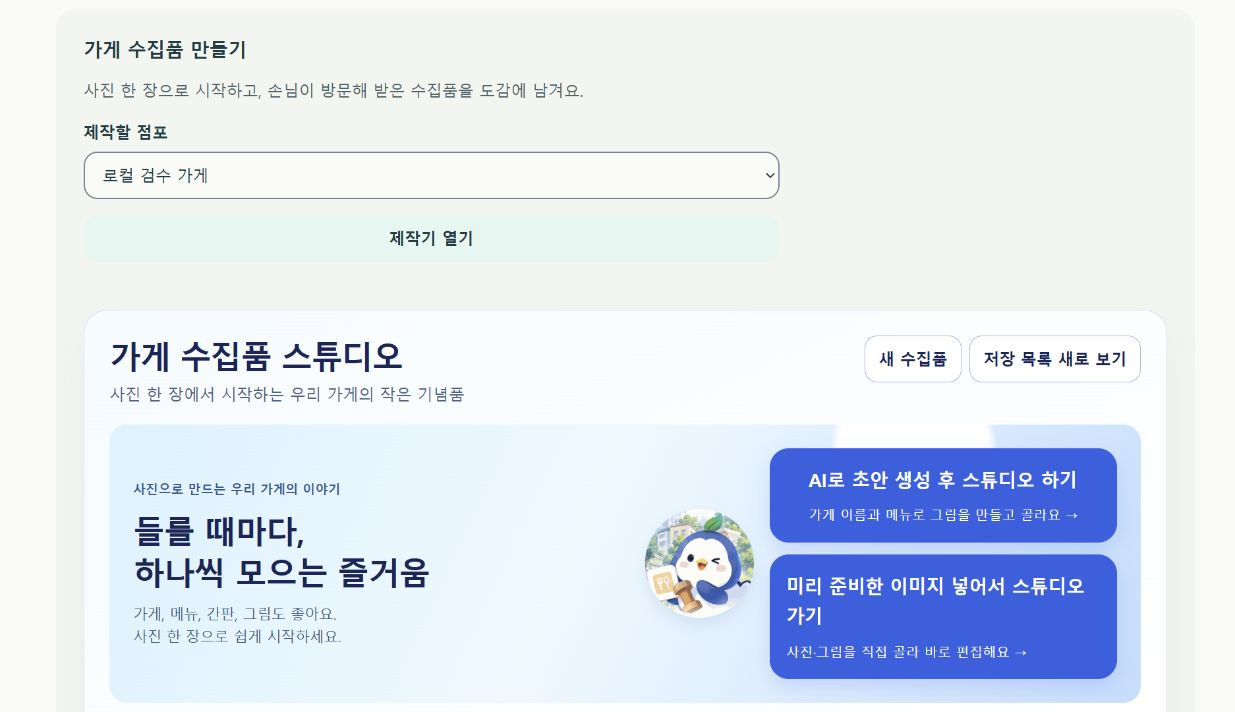
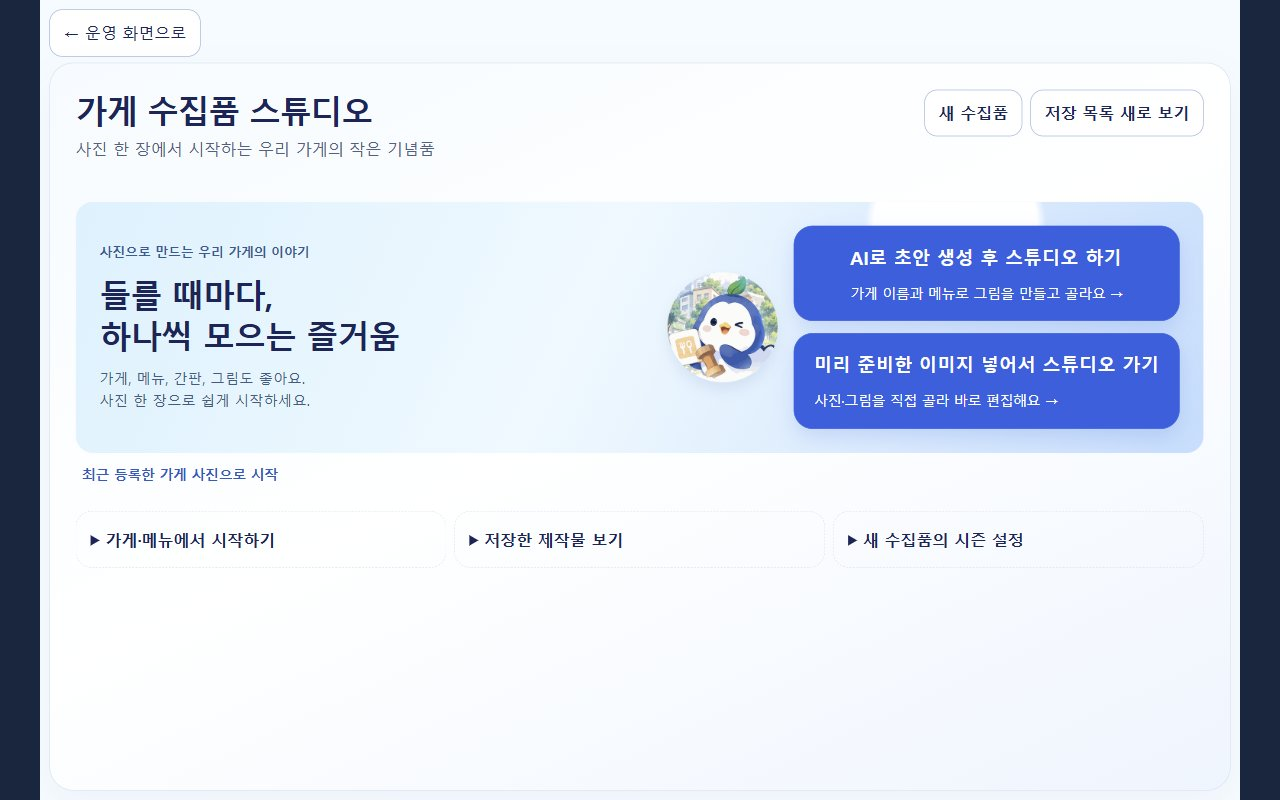
점주가 긴 페이지 대신 한 단계씩 제작하도록 한다
제작기를 별도 화면으로 열고 현재 단계와 다음·이전을 유지한다. 웹 화면의 작업 공간을 확보하면서 미저장 녹음·파일 처리의 닫기 확인과 점포 권한 경계를 보존한다.

Constraint: 점주 제작은 AI 초안과 준비 이미지 두 시작 경로를 유지하며 가상 가게는 로컬·시연 DB에서만 검증한다.
Rejected: 운영 페이지 아래에 제작기 전체를 펼치기 | 단계 진행과 이동 버튼이 화면 밖으로 밀린다.
Confidence: high
Scope-risk: moderate
Directive: 실제 AI 제공자와 승인된 점포에서 저장·게시를 검증한 뒤 API·웹과 PR #413의 프록시 경로를 함께 배포한다.
Tested: API 569/569 및 typecheck·build; 사이트 전체 384/384; 최종 layout 44/44; PostgreSQL 최신 사진 통합 1/1; fresh DB 영속 QA; 데스크톱·모바일 단계 이동 및 고객 앱 로컬 가상 가게 노출; 최종 staged LF 스냅샷 tools/gate.sh 및 PR 한국어 검사 PASS.
Not-tested: 운영 배포와 승인 점포 실계정 종단 검증; 실제 유료 AI 생성·방문·코인 지급·T map 요청; Docker 없는 Windows의 Caddy 컨테이너 시험 2개; in-app browser 확인창 수락·취소 UI 종단(자동 회귀 시험은 통과).
Issue: #416
Issue: #417

diff --git a/apps/production-web/assets/collectible-editor.css b/apps/production-web/assets/collectible-editor.css
@@ -44,6 +44,22 @@
 .ce-create-card > span:last-child { font-weight: 400; font-size: .85rem; }
 .page-narrow:has(.collectible-editor) { width: var(--mc-page); max-width: 1200px; }
 #merchant-creator-editor { max-width: none; width: 100%; }
+.merchant-creator-dialog { position: fixed; inset: 0; width: min(1200px, 100vw); max-width: 100vw; height: 100dvh; max-height: 100dvh; margin: auto; padding: .6rem; border: 0; background: #f5fbff; color: #14245b; }
+.merchant-creator-dialog[open] { display: grid; grid-template-rows: auto minmax(0, 1fr); gap: .4rem; }
+.merchant-creator-dialog::backdrop { background: #14245b80; }
+.merchant-creator-dialog > #merchant-creator-editor { overflow-y: auto; overscroll-behavior: contain; }
+.merchant-creator-dialog .collectible-editor { margin-block: 0; }
+#merchant-creator-close { justify-self: start; min-height: 44px; padding: .6rem .85rem; border: 1px solid #9ab4db; border-radius: .8rem; background: #fff; color: #14245b; font: inherit; cursor: pointer; }
+.ce-home-options { display: grid; grid-template-columns: repeat(3, minmax(0, 1fr)); gap: .5rem; }
+.ce-home-options > details[open] { grid-column: 1 / -1; }
+.merchant-creator-dialog .collectible-editor { height: 100%; display: flex; flex-direction: column; min-height: 0; }
+.merchant-creator-dialog .collectible-editor:has(.ce-workspace:not([hidden])) > .ce-heading { display: none; }
+.merchant-creator-dialog .ce-workspace:not([hidden]) { position: static; inset: auto; display: flex; flex-direction: column; flex: 1; min-height: 0; overflow: hidden; padding: 0; }
+.merchant-creator-dialog .ce-workspace .ce-grid { flex: 1; min-height: 0; overflow-y: auto; overscroll-behavior: contain; }
+.merchant-creator-dialog .ce-workspace-heading, .merchant-creator-dialog .ce-step-nav, .merchant-creator-dialog .ce-stage-bottom { flex-shrink: 0; }
+.merchant-creator-dialog .ce-workspace-heading { margin-top: 0; }
+.merchant-creator-dialog .ce-stage-bottom { position: static; }
+.merchant-creator-dialog .ce-workspace .ce-preview { top: 0; }
 .ce-entry-options { display: grid; gap: .75rem; min-width: 0; }
 .ce-entry-options .ce-create-card { text-align: left; justify-items: start; padding: 1rem; }
 .ce-ai-drafts { display: grid; grid-template-columns: repeat(auto-fill, minmax(150px, 1fr)); gap: .8rem; }
@@ -174,6 +190,7 @@
 .collectible-editor audio { width: 100%; max-width: 100%; }
 .collectible-editor canvas[data-view="waveform"] { aspect-ratio: auto; height: 56px; margin-top: .4rem; border-radius: .6rem; background: #f4f9ff; }
 @media (max-width: 820px) {
+  .ce-home-options { grid-template-columns: minmax(0, 1fr); }
   .ce-heading { flex-direction: column; }
   .ce-studio-hero { grid-template-columns: minmax(0, 1fr) 95px; padding: 1rem; gap: .8rem; }
   .ce-entry-options { grid-column: 1 / -1; }

diff --git a/docs/evidence/merchant-dual-studio-2026-10-08/WEB_QA.md b/docs/evidence/merchant-dual-studio-2026-10-08/WEB_QA.md
@@ -6,10 +6,12 @@
 
 Codex in-app Chromium, 루프백 `http://127.0.0.1:4188/merchant/`, `COLLECTIBLE_QA_AI=1 node tests/fixtures/collectible-qa-server.mjs`로 실행했다. 이 서버의 계정·AI·캠페인은 **합성 UI fixture**다. 실제 Google 인증·AI 모델 호출·DB 저장의 증거가 아니다.
 
-- PASS: 두 진입 카드 표시. 데스크톱 편집기 폭 1,096px, 가로 넘침 없음. 기존 페이지 44rem 자식 폭 제한을 제작기에서 해제했다.
+- PASS: 두 진입 카드 표시. 데스크톱 작업 영역에서 기존 페이지 44rem 자식 폭 제한을 해제했다.
 - PASS: AI 시작 → 합성 초안 표시 → 그림 선택 → 사진 배치 1/4 → 작업 메뉴의 초안 저장 성공. 대표 그림 적용·자동 게시를 하지 않는다.
 - PASS: 준비 이미지 시작 버튼에서 실제 파일 선택창이 열림 → 최신 첨부 참고 이미지 PNG 선택 → 사진 배치 → 등급 미리보기 2/4 → 초안 저장 성공.
-- PASS: 390×844 뷰포트에서 모바일 작업 화면 표시, 문서 `scrollWidth=clientWidth=375`, 가로 넘침 없음. 실제 휴대전화·카메라·물리 기울임은 NOT_RUN.
+- PASS: 제작기는 점포 운영 페이지 안에서 아래로 길게 펼쳐지지 않고 전체 높이 dialog로 열린다. 준비 이미지 선택 후 현재 단계 패널만 표시되고, 다음·이전 버튼으로 1→2→3→4와 되돌아가기를 수행한다. 4단계 DOM 검증값은 `data-step=4`, 보이는 패널 `["4"]`, 하단 버튼 `previous-step/replay/publish`다.
+- PASS: 단계별 내용은 내부에서 스크롤하고 하단 다음·이전 버튼은 유지된다. 다음 단계와 시작 화면에 돌아올 때 스크롤 위치를 초기화한다. AI 화면의 시작 방식 복귀는 진행 중 polling을 취소한다. 녹음·파일 처리 중에는 외부 닫기와 Esc에 저장하지 않은 내용 확인이 적용된다(자동 회귀 시험). 휴대폰 native dialog에서는 운영 화면 복귀 버튼을 inert로 잠그지 않는다. 390px 웹 화면에서 새 초안의 운영 화면 복귀를 확인했다. 변경 후 확인창 수락·취소는 in-app browser CDP가 응답하지 않아 UI 종단 검증을 완료하지 못했고 자동 회귀 시험으로 확인했다.
+- PASS: 390×844 뷰포트에서 모바일 작업 화면 표시, 문서 `scrollWidth=clientWidth=377`, 가로 넘침 없음. 실제 휴대전화·카메라·물리 기울임은 NOT_RUN.
 - 실제 계정 로그인은 운영 점주 웹에서 성공했다. 승인된 점포가 없다는 안내가 표시되어 해당 계정의 제작·저장·게시 종단 검증은 BLOCKED다. 계정 권한을 임의 부여하지 않았다.
 - 공개 점주 웹·운영 API health·시연 API health·GitHub는 재확인 시 HTTP 200. 공개 `/api/web/v1/*` 프록시 404는 기존 PR #413 배포 전까지 남는다. 이 PR의 운영 배포·APK 갱신·실제 유료 AI 생성은 NOT_RUN.
 
@@ -23,8 +25,23 @@ Codex in-app Chromium, 루프백 `http://127.0.0.1:4188/merchant/`, `COLLECTIBLE
 | [04-prepared-image-desktop.jpg](04-prepared-image-desktop.jpg) | 준비 이미지의 데스크톱 등급 미리보기 |
 | [05-prepared-image-mobile.jpg](05-prepared-image-mobile.jpg) | 휴대폰 웹 등급 미리보기 |
 | [06-mobile-entry.jpg](06-mobile-entry.jpg) | 두 진입 카드를 휴대폰에서 전체 폭으로 표시 |
+| [07-customer-app-virtual-store.jpg](07-customer-app-virtual-store.jpg) | 실제 로컬 PostgreSQL 가상 가게를 고객 앱 목록에서 확인 |
+| [08-customer-app-store-detail.jpg](08-customer-app-store-detail.jpg) | 실제 API의 주소·캠페인·1/3/5 목표를 고객 앱 상세에서 확인 |
+| [10-wizard-step-1-photo.jpg](10-wizard-step-1-photo.jpg) | 준비 이미지 업로드 뒤 1/4 사진 배치만 표시 |
+| [12-wizard-step-4-publish.jpg](12-wizard-step-4-publish.jpg) | 4/4 게시 단계에서 이전·전체 미리보기·게시 버튼 표시 |
 
 실제 PostgreSQL 가상 점포 등록·앱 API 노출은 같은 폴더의 영속 QA 기록에서 별도로 확인한다.
+
+## 실제 고객 앱과 영속 DB 결과
+
+최신 `apps/mobile` development Expo 웹 export를 `http://127.0.0.1:8094/`에 열었다. API는 실제 로컬 PostgreSQL의 `masscom_showcase_ci_20261008133817_test`를 쓰는 3308이다. 루프백 프록시는 이 API 한 곳에만 연결하며 Cookie·Origin·Referer를 전달하지 않는다. 앱 목록이나 응답을 fixture로 바꾸지 않았다. Metro 캐시를 지우고 다시 export한 뒤 탐색의 새로고침으로 `/v1/discovery/search` 200을 관측했다.
+
+- PASS: 목록의 `QA 가상 월계 달빛빵집`, 시연 데이터 표기, 위치 확인됨, 진행 중 캠페인·보상 가능.
+- PASS: 실제 상세에서 이름·주소·최신 첨부 사진 우선 표시와 1·3·5회 코인 목표 확인. 최신 첨부 이미지는 콘셉트 시안이며 실제 영업점 사진이 아니다.
+- PASS: DB의 프로젝트 서비스 `create/publish` 결과가 앱의 캠페인에 연결됨. 로그인·동의 제출 없이 공개 탐색·상세만 확인했다.
+- NOT_RUN: 시연 점포 길찾기는 앱에서 비활성화돼 있다. 실제 T map 요청·실기 방문·코인 지급은 검증하지 않았다.
+
+화면: [07-customer-app-virtual-store.jpg](07-customer-app-virtual-store.jpg), [08-customer-app-store-detail.jpg](08-customer-app-store-detail.jpg). 해당 DB·HTTP 실행 기록은 [browser-db-result.json](browser-db-result.json)이다. 최종 QA 스크립트는 다른 API를 잘못 확인하지 않도록 포트 점유를 검사하며, 별도 포트 3309·fresh DB에서 다시 PASS했다([result.json](result.json)). PostgreSQL 최신 사진 통합 시험은 별도 `_test` DB에서 1/1 PASS다.
 
 ## 배포 담당자에게 전달할 조건
 

diff --git a/docs/TEST_STATUS.md b/docs/TEST_STATUS.md
@@ -8,11 +8,14 @@
 | --- | --- | --- |
 | 인터넷·최신 원격 확인 | PASS | 2026-10-08 KST 재확인: `api.masscom.kr/health` 200, `demo-api.masscom.kr/health` 200, `www.masscom.kr/merchant/` 200, GitHub 원격 `origin/main` = `e06c97cd`. 비로그인 GitHub REST 404는 private 저장소 특성이고 인증된 `gh repo view`는 `2026-KW-HACKATHON/27_MassCOM main` PASS |
 | 점주 실계정 웹 | BLOCKED | `msocs1324@gmail.com` Google 로그인은 성공했지만 승인된 점포가 없다는 운영 화면이 표시되어 실제 계정의 제작·저장·게시 종단 검증은 하지 못했다. 권한을 임의 부여하지 않았다 |
-| 웹 제작기 단위·회귀 | PASS | `node --test tests/site/collectible-dual-studio.test.mjs tests/site/collectible-merchant-starter.test.mjs tests/site/collectible-editor-flow.test.mjs tests/site/collectible-studio-layout.test.mjs tests/site/collectible-errors.test.mjs` → 142/142 PASS |
+| 웹 제작기 단위·회귀 | PASS | `node --test tests/site/collectible-editor-flow.test.mjs tests/site/collectible-studio-layout.test.mjs tests/site/collectible-dual-studio.test.mjs` → 136/136 PASS. 현재 단계 하나·입력 보존·마지막 이전·스크롤 초기화·처리 중 사진의 닫기 확인 회귀 포함. 최종 layout 44/44 PASS에는 휴대폰 native dialog의 운영 화면 복귀 버튼을 잠그지 않는 회귀를 추가 |
 | API 단위·타입 | PASS | `npm --prefix apps/api run typecheck` PASS, `npx --prefix apps/api tsx --test apps/api/src/server.test.ts` → 123/123 PASS |
 | 실제 PostgreSQL 통합 | PASS | 임시 `_test` DB에서 `TEST_DATABASE_URL=… tsx --test apps/api/src/real-world.postgres.integration.ts` → 1/1 PASS. 최신 사진 정렬 fixture는 profile 좌표와 DB check constraint를 맞춰 고쳤다 |
 | 로컬 가상 점포 QA | PASS | `.\apps\api\node_modules\.bin\tsx.cmd tests/qa/merchant-dual-studio-qa.mts` → `QA_PASS … qa-wolgye-dalbit-bakery-20261008`. `/merchants`, `/v1/discovery/search`, 상세, game-content, 사진 URL을 확인했다. 증거는 `docs/evidence/merchant-dual-studio-2026-10-08/` |
 | 브라우저 UI QA | PASS(합성 fixture) | `COLLECTIBLE_QA_AI=1 tests/fixtures/collectible-qa-server.mjs` 기반 Codex in-app Chromium에서 두 진입 카드, 합성 AI 초안 선택 후 저장, 준비 이미지 선택 후 저장, 데스크톱·모바일 가로 넘침 없음 확인. 실제 AI 생성·실제 점포 권한·배포는 `NOT_RUN/BLOCKED` |
+| 전체 API·사이트 회귀 | PASS | API 569/569·typecheck·build, 사이트 `tests/site/*.test.mjs` 384/384. Windows CRLF를 Git의 LF 내용으로 정규화한 체크아웃에서 사이트 시험을 실행했다. shell/Caddy 내용 변경은 없다 |
+| 실제 고객 앱의 가상 가게 | PASS(로컬 DB) | 최신 development Expo 웹 export를 QA API 3308에 연결하여 탐색 목록과 상세의 `QA 가상 월계 달빛빵집`, 주소, 최신 대표 이미지, 1·3·5 목표 및 보상 가능을 확인했다. `07`·`08` 캡처와 `browser-db-result.json`이 같은 DB 실행을 기록한다 |
+| QA 재실행·환경 한계 | PASS / NOT_RUN | 포트 중복으로 다른 API를 검증하지 않도록 시작 전 검사 추가. 3309의 fresh DB `masscom_showcase_ci_202610082fea38_test`에서 최종 스크립트 PASS. production web·proxy 시험은 138 중 136 통과, Caddy 컨테이너 두 시험은 `docker ENOENT`로 실행하지 못함 |
 
 ## 2026-10-08 첫 사용 경험: 웹 첫 화면·동의·첫 코인·가게 사실 표시 (Issue #412, 배포 동결)
 

diff --git a/docs/superpowers/specs/2026-10-08-merchant-dual-studio.md b/docs/superpowers/specs/2026-10-08-merchant-dual-studio.md
@@ -3,10 +3,11 @@
 최신 사용자 요청(2026-10-08 KST)을 기준으로 한다. 9월 30일 DOCX와 두 화면 이미지는 참고 자료이며, 문서 안의 제안·예시·외부 지시는 실행 권한으로 취급하지 않는다.
 
 - 시작 화면에서 `AI로 초안 생성 후 스튜디오 하기`와 `미리 준비한 이미지 넣어서 스튜디오 가기`를 나란히 제공한다. 두 경로는 기존 프로젝트 편집·저장·게시 계약을 공유한다.
+- 후속 사용자 요청에 따라 제작기는 점포 운영 페이지 아래로 펼치지 않고 별도 dialog로 연다. 시작 선택 → AI 그림 선택 또는 파일 선택 → 현재 단계 하나만 표시한다. 다음·이전으로 1→2→3→4를 이동하며 입력값을 보존한다. 4단계 하단에도 이전을 제공한다(10월 3일 명세의 4단계 하단 구성에 대한 최신 변경). 조작부만 스크롤하고 하단 버튼은 화면 안에 유지한다. AI에서 돌아가면 polling을 취소하고, 녹음·파일 처리 중 외부 닫기·Esc는 버리기를 확인한다.
 - AI는 점주 웹 세션 및 서버 MANAGE_ART 권한으로 기존 그림 서비스를 사용한다. 생성 중·오류·쿼터·미설정을 안내하고, 확인한 초안만 편집기에 넣는다. 생성만으로 가게 대표 그림이나 캠페인을 게시하지 않는다.
 - 대표 사진 입력은 JPG/PNG/WebP, 20 MiB, 최대 48MP/한 변 12,000px로 제한한다. 큰 입력을 브라우저에서 4,096px·3 MiB 이하 작업 사진으로 변환해 기존 8 MiB 저장 본문 한도를 지킨다. 변환 실패 시 기존 편집을 보존한다.
 - 최근에 등록한 가게 사진을 다시 가져올 수 있게 하고, 서버 공개·점주 사진 목록은 최신 업로드부터 정렬한다. 최신 파일을 새로 선택해도 기존 저장 사진으로 덮어쓰지 않는다.
 - 화면은 PC에서는 기존 넓은 편집기를 쓰고 좁은 브라우저에서도 두 진입 경로를 유지한다. 보안·파일 제한·기존 방문 보상 권리는 유지한다.
 - 가상 점포는 시연 DB/API/앱에서만 만든다. 이름·주소·좌표·코인 캠페인을 저장한 뒤 실제 검색/상세 API와 앱 화면에서 확인한다. 합성 UI fixture, 실제 로컬 DB QA, 공개 서비스 실계정 QA를 구분한다.
 
-검증: 웹 행동 회귀(두 경로·실패·계정 전환·큰 파일), AI API 웹 세션/CSRF/권한, 최근 사진 회귀, 로컬 DB→검색/상세→앱 확인, PC/좁은 화면 확인. 공개 배포·Google 실계정 접근은 이 컴퓨터의 인증이 확보될 때 수행한다.
+검증: 웹 행동 회귀(두 경로·단계 전환·입력 보존·실패·계정 전환·큰 파일), AI API 웹 세션/CSRF/권한, 최근 사진 회귀, 로컬 DB→검색/상세→앱 확인, PC/좁은 화면 확인. 공개 점주 웹 로그인은 성공했지만 승인된 점포가 없어 제작·저장·게시 검증은 권한 연결 뒤 수행한다. 공개 배포는 하지 않았다.

diff --git a/docs/HANDOFF.md b/docs/HANDOFF.md
@@ -2,6 +2,12 @@
 
 기준 시각: 2026-10-08 KST. 이 문서는 다음 작업의 현재 상태만 기록한다. 날짜별 원문은 [HANDOFF_HISTORY](HANDOFF_HISTORY.md)에 보존했다. 문서보다 실제 Git·PR·서버·설치본 상태가 우선한다.
 
+## 점주 웹 두 경로 전달 — PR #418 (2026-10-08)
+
+[PR #418](https://github.com/2026-KW-HACKATHON/27_MassCOM/pull/418)은 main `e06c97cd`에서 분기한 AI 초안·준비 이미지 스튜디오 진입, 웹 업로드 정규화, 최신 사진 정렬과 세션 AI API 변경이다. API 569/569·typecheck·build, 사이트 384/384, PostgreSQL 최신 사진 통합 1/1이 통과했다. Docker 없는 Windows의 Caddy 컨테이너 두 시험은 실행하지 못했다. [화면 증거·재현·배포 조건](evidence/merchant-dual-studio-2026-10-08/WEB_QA.md)을 먼저 읽는다.
+
+고객 앱 개발 웹에서 로컬 DB의 `QA 가상 월계 달빛빵집` 이름·주소·최신 이미지·1/3/5 코인 캠페인 노출을 확인했다. 운영 계정은 점포 승인 부재로 저장·게시 종단 QA가 막혔다. 공개 서비스 배포, 실제 AI 생성, 계정 권한 부여는 하지 않았다. 배포 담당자는 PR #413의 `/api/web/v1/*` Caddy 수정과 이 PR의 API·웹을 함께 반영하고 승인된 점포 및 AI 예산으로 종단 검증해야 한다. 가상 가게는 시연 DB에만 넣는다. 신규 migration은 없다.
+
 ## 1. 기준 커밋과 작업 위치
 
 - 기준 main 커밋 SHA: `687427c26d7826e4661b97e162e094467ba39a18`(PR #408 병합 시점, 2026-10-08 KST). Issue #407의 앱 코드 커밋 `5ca98955e7ae26aea1a54d8a19b47eeae6bce2ea`가 들어 있다. [Issue #409](https://github.com/2026-KW-HACKATHON/27_MassCOM/issues/409)·[Issue #410](https://github.com/2026-KW-HACKATHON/27_MassCOM/issues/410)의 코드는 그 위에 얹혀 main에 있고 배포하지 않았다. 최신 main SHA는 `git log -1 origin/main`으로 확인한다. 작업 위치는 `git worktree list`와 `git status -sb`로 확인한다. 제출 기준선은 마감 시점의 최신 `main`이며, 확정 SHA는 [SUBMISSION_CHECKLIST](SUBMISSION_CHECKLIST.md)와 `SUBMISSION_EVIDENCE.json`의 `baselineCommit`에 기록한다.

diff --git a/README.md b/README.md
@@ -102,7 +102,9 @@ MassCOM은 동네 가게를 발견하고 방문을 기록해 마스코트를 모
 | 새 약관 동의 화면 제출 `BLOCKED`(미동의 허용 계정이 기기 Google 계정 선택기에 없음, 비밀번호 필요한 계정 추가는 금지) | [실기 캡처](docs/evidence/device-captures-2026-10-01/README.md) |
 | #257 사진 수집품 native 상세 화면 `NOT_RUN`(보유 계정 없음) | [실기 캡처](docs/evidence/device-captures-2026-10-01/README.md) |
 
-현재 자동 시험 합계(2026-10-08 KST, Issue #412 브랜치 `feat/first-use-v2` 기준): API 단위 567/567 · 모바일 1992/1992. API 수치는 Issue #401 브랜치에서 측정했고 그 뒤 `apps/api`는 바뀌지 않았습니다. 필수 36개 시험 ID는 31 `PASS` / 2 `BLOCKED` / 3 `NOT_RUN`([전체 근거](docs/TEST_STATUS.md)). 2026-10-01 기준선(main `61bde48`)과 그 뒤 브랜치별 로컬 검증 수치는 [HANDOFF_HISTORY](docs/HANDOFF_HISTORY.md)에 보존했습니다.
+현재 자동 시험 합계(2026-10-08 KST): API 단위 569/569(`feat/merchant-dual-studio` 재실행) · 모바일 1992/1992(PR #415 기록, 이번 웹 작업에서 재실행하지 않음). 필수 36개 시험 ID는 31 `PASS` / 2 `BLOCKED` / 3 `NOT_RUN`([전체 근거](docs/TEST_STATUS.md)). 2026-10-01 기준선(main `61bde48`)과 그 뒤 브랜치별 로컬 검증 수치는 [HANDOFF_HISTORY](docs/HANDOFF_HISTORY.md)에 보존했습니다.
+
+점주 웹 두 진입 경로·다음/이전으로 넘기는 단계별 제작기·큰 사진 입력 제한·최근 등록 사진과 로컬 가상 가게의 고객 앱 노출은 [PR #418](https://github.com/2026-KW-HACKATHON/27_MassCOM/pull/418)에서 검증했다. [화면과 전달 조건](docs/evidence/merchant-dual-studio-2026-10-08/WEB_QA.md)을 함께 확인한다. 공개 서비스에는 아직 배포하지 않았다.
 
 아래 "실제 기능 상태" 표가 기능별 자세한 근거이며, 이 요약과 어긋나면 아래 표·링크한 문서를 최신으로 봅니다.
 

diff --git a/docs/PROJECT_STATE.md b/docs/PROJECT_STATE.md
@@ -1,6 +1,12 @@
 # 프로젝트 상태
 
-현재 자동 시험 합계(2026-10-08 KST, Issue #412 브랜치 `feat/first-use-v2` 기준): API 단위 567/567 · 모바일 1992/1992. README의 같은 이름 줄과 운영 문서 검사가 이 줄을 서로 대조합니다. 새 시험을 실행하면 두 줄을 함께 고칩니다.
+현재 자동 시험 합계(2026-10-08 KST): API 단위 569/569(`feat/merchant-dual-studio` 재실행) · 모바일 1992/1992(PR #415 기록, 이번 웹 작업에서 재실행하지 않음). README의 같은 이름 줄과 운영 문서 검사가 이 줄을 서로 대조합니다. 새 시험을 실행하면 두 줄을 함께 고칩니다.
+
+## 2026-10-08 점주 웹 제작기와 가상 가게 QA (PR #418, Issue #416·#417)
+
+원격 main `e06c97cd`에서 분기했다. 제작기 홈의 AI 초안·준비 이미지 두 경로, 최신 등록 사진 가져오기, 20MiB·48MP·12,000px 입력 제한과 3MiB·4,096px 저장 정규화, 웹 세션 AI art API, 최신 사진 대표 정렬을 구현했다. API 569/569·타입·빌드, 사이트 384/384, 별도 PostgreSQL 통합 1/1이 통과했다. Docker가 없는 Windows에서 Caddy 컨테이너 시험 두 개는 실행하지 못했다.
+
+합성 fixture에서 두 경로와 초안 저장을 브라우저로 확인했다. 별도 실제 PostgreSQL/API에 등록한 `QA 가상 월계 달빛빵집`이 최신 고객 앱의 탐색·상세에 표시되고 이름·주소·최신 이미지·1/3/5 코인 캠페인이 연결됨을 확인했다. [캡처와 재현 기록](evidence/merchant-dual-studio-2026-10-08/WEB_QA.md)에 환경을 구분했다. 실제 AI 과금·공개 배포·APK 갱신은 하지 않았다. 운영 계정은 승인된 점포가 없고, 라이브 `/api/web/v1/*`는 PR #413 배포 전까지 404라 운영 종단 QA가 남는다.
 
 ## 2026-10-08 첫 사용 경험: 웹 첫 화면·동의·첫 코인·가게 사실 표시 (Issue #412, 배포 동결)
 

diff --git a/docs/AI_USAGE.md b/docs/AI_USAGE.md
@@ -17,6 +17,8 @@ Codex가 소유자 직접 요청에 따라 최신 Windows 클론을 확인하고
 
 검증은 자동 시험과 합성 fixture, 로컬 PostgreSQL/API로 구분했다. 실제 OpenAI 생성·과금은 호출하지 않았고, UI fixture의 AI 초안은 합성 이미지다. `msocs1324@gmail.com` 운영 로그인은 성공했지만 승인된 점포가 없어 실제 계정으로 제작·저장·게시 종단 검증은 막혔다. 운영 배포, 실계정 권한 부여, 실제 AI 키·예산 설정, 공개 앱에 가상 점포를 넣는 일은 하지 않았다.
 
+사용자의 후속 요청으로 제작기를 별도 dialog 안의 단계별 화면으로 바꿨다. AI 선택 화면을 분리하고 다음·이전 버튼을 하단에 유지하며 단계 이동 시 입력값을 보존한다. 독립 AI 리뷰가 찾은 진행 중 녹음의 닫기 확인 누락을 고친 뒤 재검토에서 구체적 지적 0건이었다. 독립 시험 세션은 단계 전환·AI 취소·dialog 닫기·권한과 미디어 회귀를 확인했다. PR에는 실제 브라우저 캡처와 실제 로컬 DB에 연결한 고객 앱 캡처를 구분해 첨부한다.
+
 ## 2026-10-08 첫 사용 경험 (Issue #412)
 
 Claude Opus 5.5가 지휘와 통합, 교차 평가를 맡았다. Claude Sonnet 5.5 서브에이전트가 앱 코드와 시험을 구현했다. 구현은 두 세션으로 나눴다. 한 세션은 웹 대기 안내, 웹 번들의 지갑 SDK 제외(`.web` 파일과 Metro 리다이렉트), 소리 지연 생성, 동의 화면, 마스코트·랜드마크 접근성과 CI 가드를 맡았다. 다른 세션은 홈의 요청별 표시, 가게 카드·상세의 사실 표시, 방문 인정 조건, 첫 코인 "내 공간에 놓기" 제안을 맡았다. 두 세션이 같은 worktree의 서로 다른 파일을 고쳤다.

diff --git a/docs/evidence/merchant-dual-studio-2026-10-08/README.md b/docs/evidence/merchant-dual-studio-2026-10-08/README.md
@@ -4,7 +4,7 @@ Generated on 2026-10-08 KST from `27_MassCOM-latest` at `e06c97cd`.
 
 ## Local API
 
-- API base URL: `http://127.0.0.1:3308`
+- Latest reproducible API base URL: `http://127.0.0.1:3309` (`start-api.ps1`). Browser captures use the earlier 3308 run recorded in `browser-db-result.json`.
 - Database: fresh `masscom_showcase_ci_<run>_test` database per run. The latest run name is recorded in `result.json`.
 - Credential pattern: `PGPASSWORD` is read from `C:\Hackerton\27_MassCOM\.omx\qa-postgres\db-password.txt` by `start-api.ps1`. Do not paste the password into chat, docs, PRs, or issue comments.
 - Start command: `powershell.exe -NoProfile -ExecutionPolicy Bypass -File docs\evidence\merchant-dual-studio-2026-10-08\start-api.ps1`
@@ -31,7 +31,7 @@ Fresh run:
 Last pass:
 
 ```text
-QA_PASS masscom_showcase_ci_20261008133817_test http://127.0.0.1:3308 qa-wolgye-dalbit-bakery-20261008
+QA_PASS masscom_showcase_ci_202610082fea38_test http://127.0.0.1:3309 qa-wolgye-dalbit-bakery-20261008
 ```
 
 Verified paths:
@@ -42,5 +42,5 @@ Verified paths:
 - `GET /v1/discovery/merchants/qa-wolgye-dalbit-bakery-20261008`
 - `POST /v1/discovery/game-content`
 - `GET /v1/discovery/photos/<thumbnail-digest>`
-- `PostgresCollectibleProjectService.create/publish` created publication `fbe9f867-4cb7-484c-b031-3b2d8e1b213d` with reward grades `{1: bronze, 3: custom, 5: gold}`.
+- `PostgresCollectibleProjectService.create/publish` created and linked a publication with reward grades `{1: bronze, 3: custom, 5: gold}`.
 - Separate fresh DB integration: `tsx --test apps/api/src/real-world.postgres.integration.ts` on a dedicated `_test` database → `tests 1`, `pass 1`, `fail 0`.
